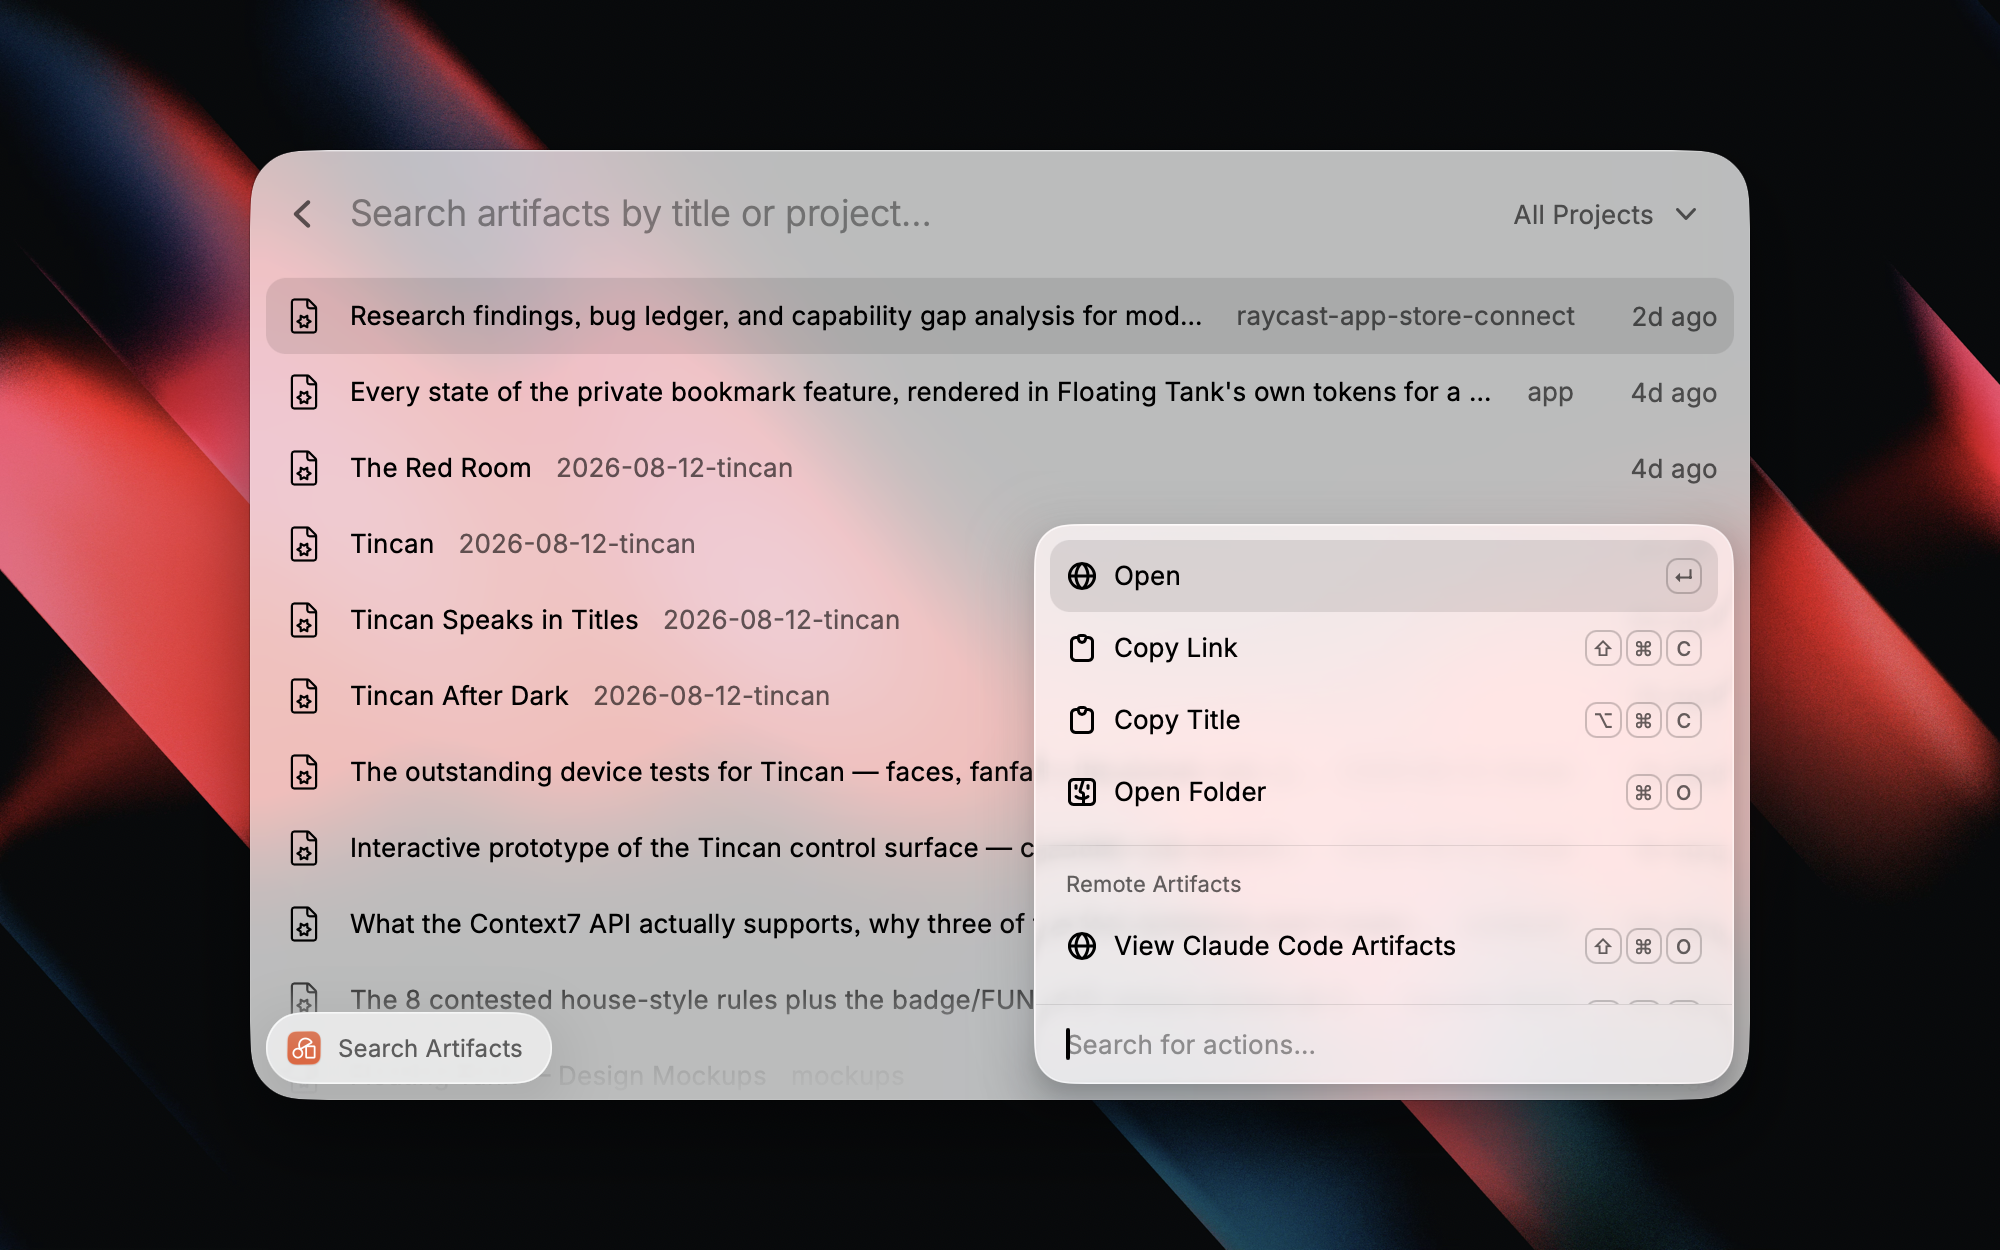
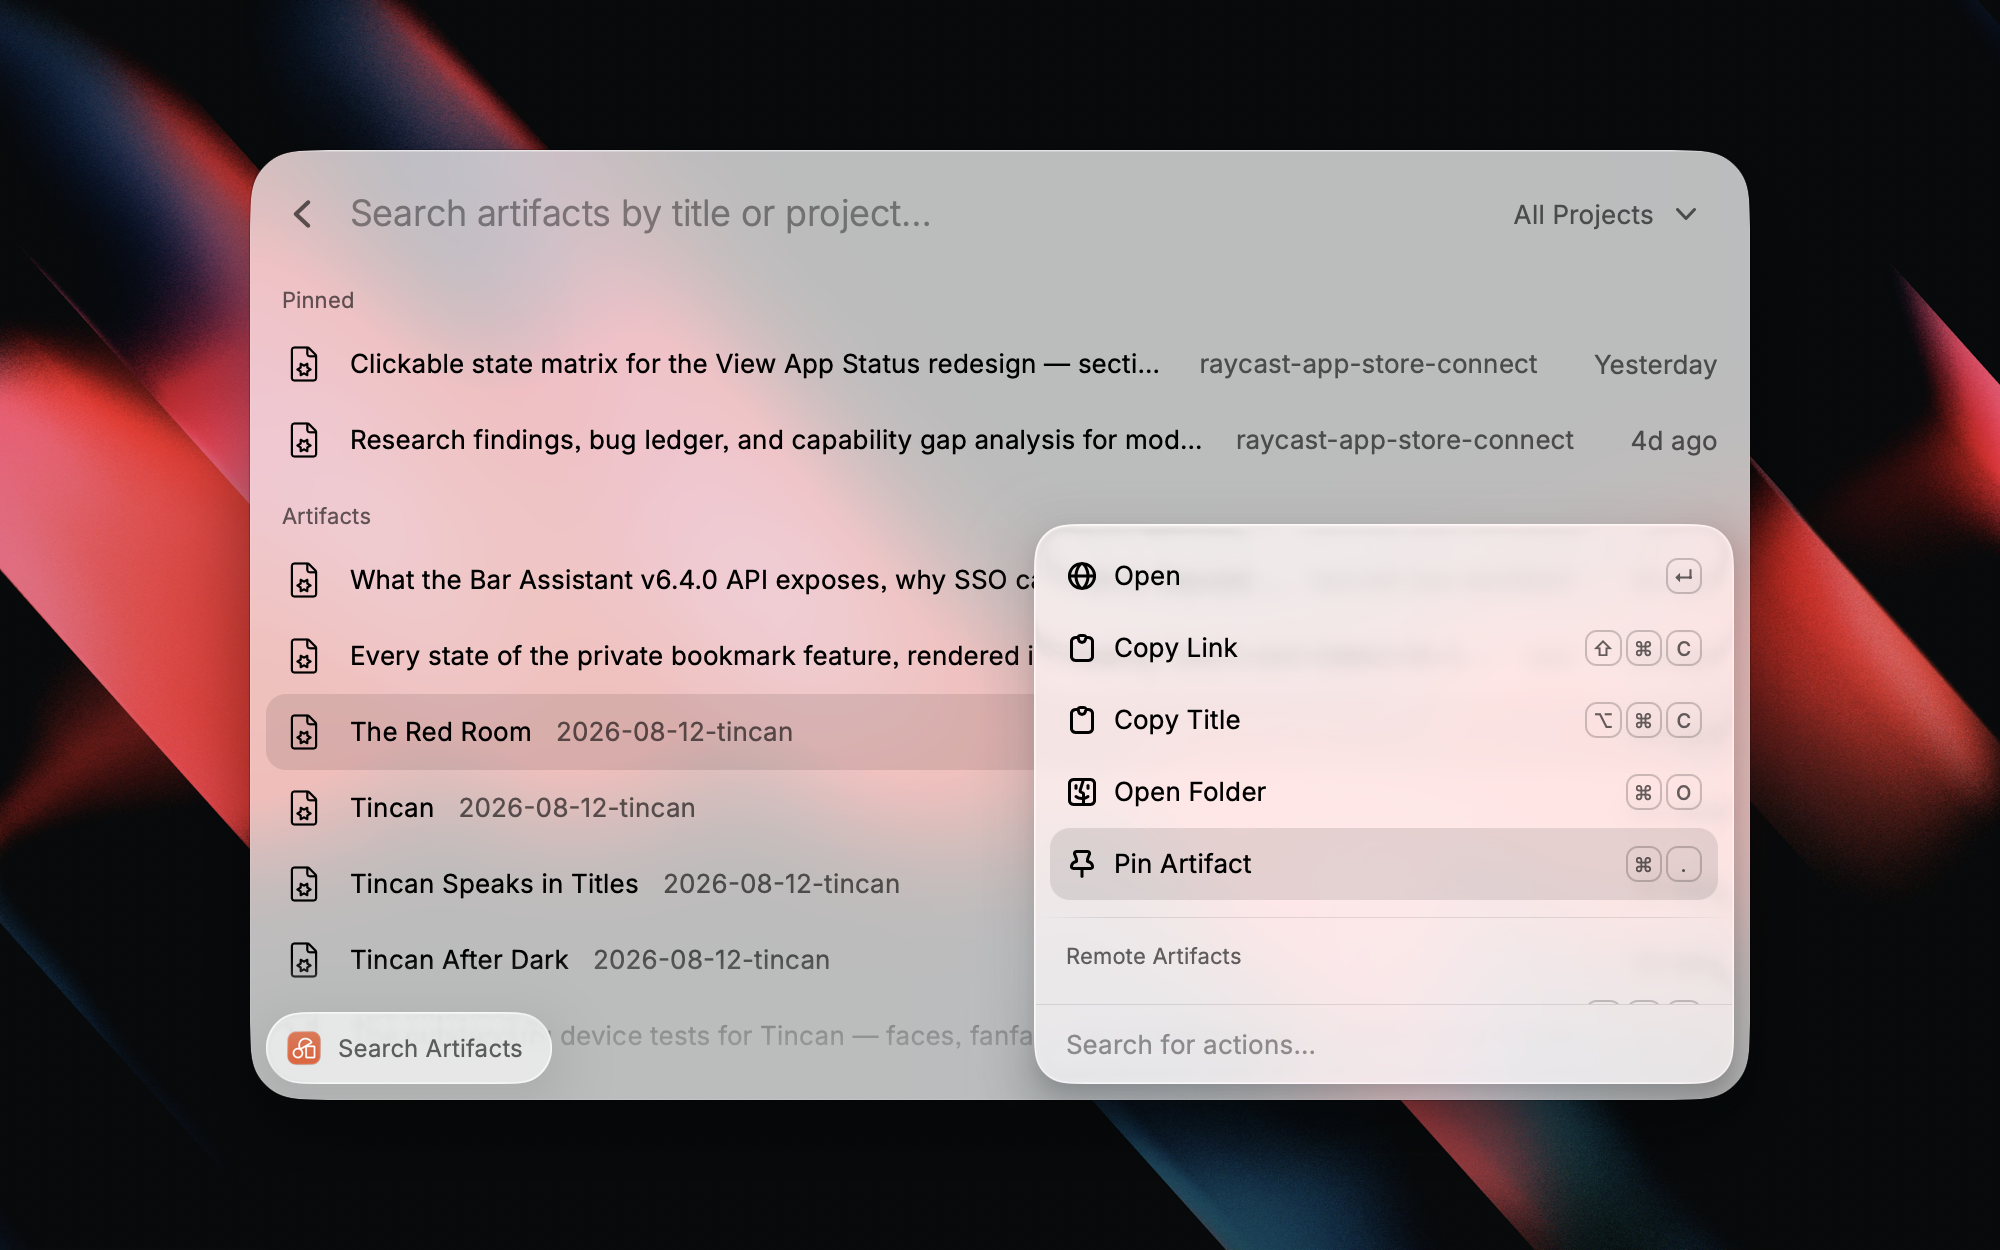
feat: pin artifacts to the top of the list
Recency alone stops finding the one you keep coming back to once enough
artifacts accumulate. Pin Artifact (⌘.) collects them in a Pinned section,
and the partition runs after the project filter so pins hold inside a
filtered list too.

Pins live in LocalStorage rather than ~/.claude/artifacts.json: the index is
owned by the recorder hook, which rewrites rows on every publish, so a
`pinned` field there would be silently dropped.

Read via useCachedPromise rather than useLocalStorage, which reports
undefined until its read resolves — indistinguishable from "nothing is
pinned", so every launch painted pinned rows in the unpinned section and
then jumped them. Writes go through a module-level promise chain that
re-reads storage inside the chain, so two toggles fired before a rerender
cannot both compute from the same stale array.

Also moves to @raycast/api 2.1.2, the current release on the v2 line.

Claude-Session: https://claude.ai/code/session_01Ep25wYdM2hxfx22v8sSawD

diff --git a/src/actions/pin.tsx b/src/actions/pin.tsx
@@ -1,0 +1,113 @@
+import { Action, Icon, Keyboard, LocalStorage } from "@raycast/api";
+import { useCachedPromise } from "@raycast/utils";
+
+/**
+ * Pinned artifact ids, newest pin first.
+ *
+ * Stored in LocalStorage rather than written back into `~/.claude/artifacts.json`:
+ * the index is owned by the hook, which rewrites rows on every publish, so a
+ * `pinned` field added there would be silently dropped. Pins are also a view
+ * preference, not a property of the artifact.
+ *
+ * Ids of artifacts that later leave the index are kept rather than pruned —
+ * membership is a `Set` lookup, so a stale id costs nothing, and dropping it
+ * would lose the pin if the row ever comes back (a republished artifact keeps
+ * its id).
+ */
+const PINS_KEY = "pinned-artifact-ids";
+
+async function readPins(): Promise<string[]> {
+  const raw = await LocalStorage.getItem<string>(PINS_KEY);
+  if (!raw) return [];
+
+  try {
+    const parsed: unknown = JSON.parse(raw);
+    // Hand-edited or half-written storage must not throw on launch; an
+    // unreadable pin list is the same outcome as an empty one.
+    return Array.isArray(parsed) ? parsed.filter((id): id is string => typeof id === "string") : [];
+  } catch {
+    return [];
+  }
+}
+
+/**
+ * Serializes read-modify-write, so two toggles fired before a rerender cannot
+ * both compute from the same array and lose the first write.
+ *
+ * ponytail: module-level chain, fine because a command runs in one process and
+ * this is the only writer. Move to a keyed queue if anything else starts
+ * writing this key.
+ */
+let pending: Promise<unknown> = Promise.resolve();
+
+function toggleStoredPin(id: string): Promise<string[]> {
+  const result = pending.then(async () => {
+    const current = await readPins();
+    const next = current.includes(id) ? current.filter((pinnedId) => pinnedId !== id) : [id, ...current];
+    await LocalStorage.setItem(PINS_KEY, JSON.stringify(next));
+    return next;
+  });
+
+  // Sequence the NEXT toggle behind this one whether or not it succeeded. A
+  // rejected `pending` would otherwise wedge the chain permanently: every
+  // later `.then` callback is skipped, so pinning silently stops working for
+  // the rest of the session even after storage recovers.
+  //
+  // `result` itself stays rejectable, so `mutate` still sees the failure and
+  // rolls its optimistic update back.
+  pending = result.catch(() => undefined);
+
+  return result;
+}
+
+/**
+ * `useCachedPromise`, not `useLocalStorage`, for the same reason the hook-status
+ * read uses it: `useLocalStorage` reports `undefined` until its async read
+ * resolves, which is indistinguishable from "nothing is pinned" — so every
+ * launch would paint pinned rows down in the unpinned section and then jump
+ * them to the top. The cache supplies the previous launch's value on the first
+ * frame; LocalStorage remains the durable truth, so a cache eviction costs one
+ * flicker rather than the pins themselves.
+ *
+ * ponytail: `initialData` still renders before the FIRST-ever read resolves, so
+ * that one reorder survives on the launch right after upgrading and after a
+ * cache eviction. Not gated behind `isLoading`, because `useCachedPromise`
+ * reports loading during every background revalidation too — blanking the list
+ * on every single launch to spare one frame on the rare one is the worse trade.
+ */
+export function usePins() {
+  const { data: order = [], mutate } = useCachedPromise(readPins, [], {
+    initialData: [] as string[],
+    keepPreviousData: true,
+  });
+
+  const pinned = new Set(order);
+
+  return {
+    pinned,
+    togglePin: (id: string) =>
+      mutate(toggleStoredPin(id), {
+        optimisticUpdate: (current = []) =>
+          current.includes(id) ? current.filter((pinnedId) => pinnedId !== id) : [id, ...current],
+        // No re-read afterwards. A revalidation triggered by an EARLIER toggle
+        // resolves while a later one is still queued, publishing storage as it
+        // was mid-chain — so pinning two artifacts in quick succession made the
+        // second visibly drop back to the unpinned section before reappearing.
+        // The optimistic update applies the same transformation the queue does,
+        // and nothing outside this command writes the key, so they converge
+        // without one.
+        shouldRevalidateAfter: false,
+      }),
+  };
+}
+
+export function PinAction({ id, pinned, togglePin }: { id: string; pinned: boolean; togglePin: (id: string) => void }) {
+  return (
+    <Action
+      title={pinned ? "Unpin Artifact" : "Pin Artifact"}
+      icon={pinned ? Icon.TackDisabled : Icon.Tack}
+      shortcut={Keyboard.Shortcut.Common.Pin}
+      onAction={() => togglePin(id)}
+    />
+  );
+}

diff --git a/src/search-artifacts.tsx b/src/search-artifacts.tsx
@@ -3,6 +3,7 @@ import { useCachedPromise } from "@raycast/utils";
 import { useMemo, useState } from "react";
 
 import { GalleryActionSection } from "./actions/gallery";
+import { PinAction, usePins } from "./actions/pin";
 import { RevealInFinderAction } from "./actions/reveal-in-finder";
 import { NoArtifactsEmptyView, NoMatchesEmptyView, emptyViewForProblem } from "./components/empty-views";
 import { HookNotRegisteredItem } from "./components/hook-setup";
@@ -28,7 +29,15 @@ const ARTIFACT_ICON: Image.ImageLike = {
 
 const EMPTY_RESULT: IndexResult = { artifacts: [], projects: [] };
 
-function ArtifactListItem({ artifact }: { artifact: Artifact }) {
+function ArtifactListItem({
+  artifact,
+  pinned,
+  togglePin,
+}: {
+  artifact: Artifact;
+  pinned: boolean;
+  togglePin: (id: string) => void;
+}) {
   const relative = formatRelativeDate(artifact.updated);
 
   const accessories: List.Item.Accessory[] = [];
@@ -70,6 +79,7 @@ function ArtifactListItem({ artifact }: { artifact: Artifact }) {
           {artifact.cwd ? (
             <RevealInFinderAction title="Open Folder" path={artifact.cwd} shortcut={Keyboard.Shortcut.Common.Open} />
           ) : null}
+          <PinAction id={artifact.id} pinned={pinned} togglePin={togglePin} />
           <GalleryActionSection />
           <ActionPanel.Section>
             <RevealInFinderAction
@@ -93,6 +103,7 @@ function ArtifactListItem({ artifact }: { artifact: Artifact }) {
 
 export default function Command() {
   const [project, setProject] = useState<string>(ALL_PROJECTS);
+  const { pinned, togglePin } = usePins();
 
   const { data = EMPTY_RESULT, isLoading } = useCachedPromise(readIndex, [], {
     initialData: EMPTY_RESULT,
@@ -129,6 +140,16 @@ export default function Command() {
   const visible = useMemo(
     () => (activeProject === ALL_PROJECTS ? artifacts : artifacts.filter((a) => a.project === activeProject)),
     [artifacts, activeProject],
+  );
+
+  // Partitioned AFTER the project filter, so pins float to the top of whatever
+  // is on screen rather than only of the unfiltered list. Both halves keep the
+  // index's recency order.
+  const pinnedVisible = visible.filter((a) => pinned.has(a.id));
+  const unpinnedVisible = visible.filter((a) => !pinned.has(a.id));
+
+  const renderItem = (artifact: Artifact) => (
+    <ArtifactListItem key={artifact.id} artifact={artifact} pinned={pinned.has(artifact.id)} togglePin={togglePin} />
   );
 
   // Only offer the dropdown once there is something to filter by; a
@@ -173,7 +194,15 @@ export default function Command() {
       ) : visible.length === 0 ? (
         <NoMatchesEmptyView />
       ) : (
-        visible.map((artifact) => <ArtifactListItem key={artifact.id} artifact={artifact} />)
+        <>
+          {/* An empty section renders nothing, so no guard is needed here. The
+              second section stays untitled until there is a "Pinned" heading
+              above it to distinguish itself from. */}
+          <List.Section title="Pinned">{pinnedVisible.map(renderItem)}</List.Section>
+          <List.Section title={pinnedVisible.length > 0 ? "Artifacts" : undefined}>
+            {unpinnedVisible.map(renderItem)}
+          </List.Section>
+        </>
       )}
     </List>
   );

diff --git a/CHANGELOG.md b/CHANGELOG.md
@@ -1,5 +1,11 @@
 # Claude Artifacts Changelog
 
+## [Pin Artifacts] - {PR_MERGE_DATE}
+
+- Added **Pin Artifact** (⌘.) — pinned artifacts collect in a **Pinned** section at the top of the list, which is what you want once you have enough of them that recency alone stops finding the one you keep coming back to
+- Pins hold inside a project filter too, so filtering does not scatter them back into the pile
+- Moved to `@raycast/api` 2.1
+
 ## [Tell You When Tracking Stops] - 2026-08-27
 
 - Added an **Artifact Tracking Is Off** row at the top of the list when the Claude Code hook is not registered — until now a list that had quietly stopped updating looked exactly like one that was up to date
